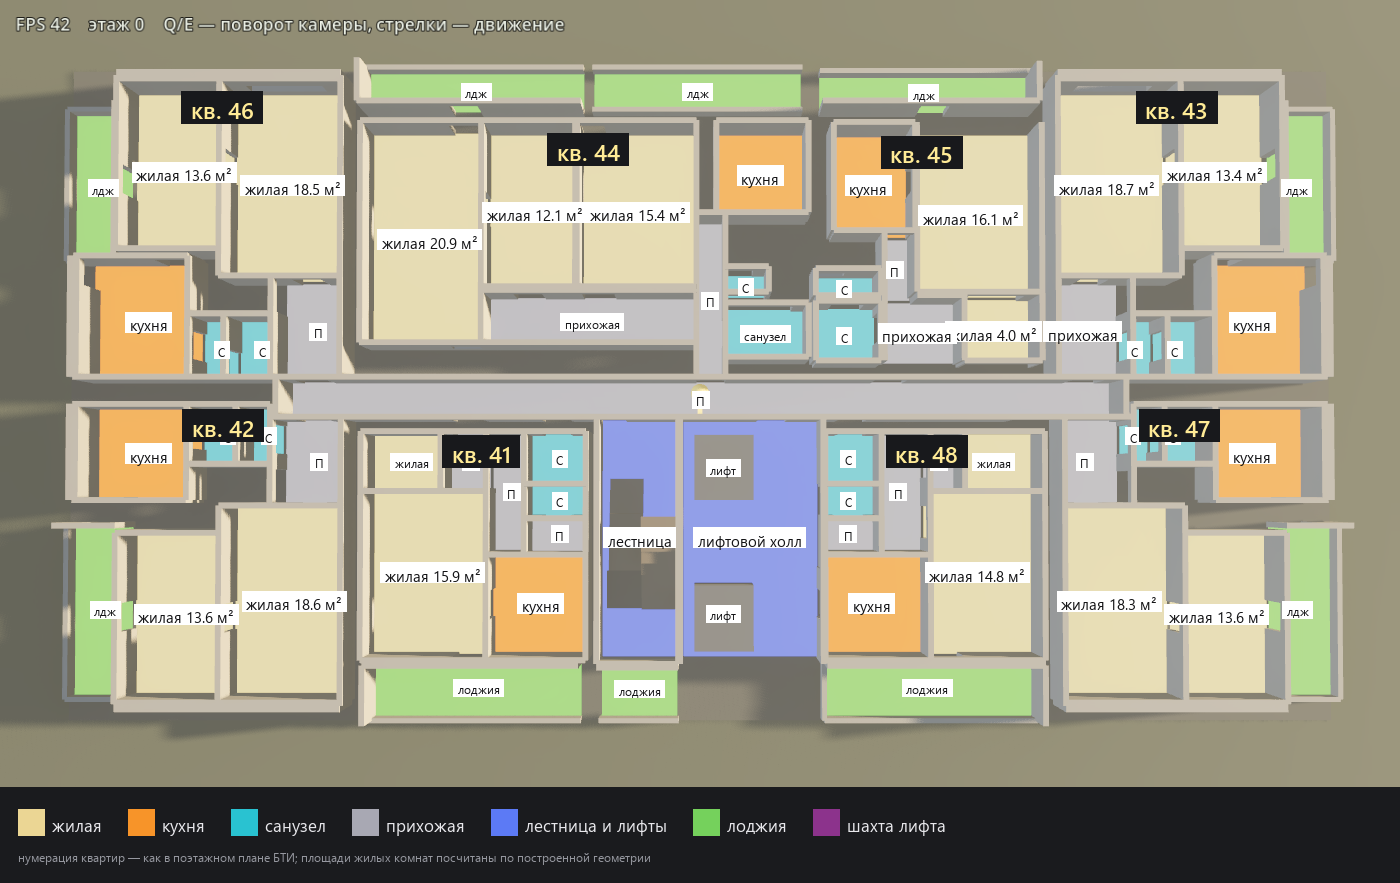
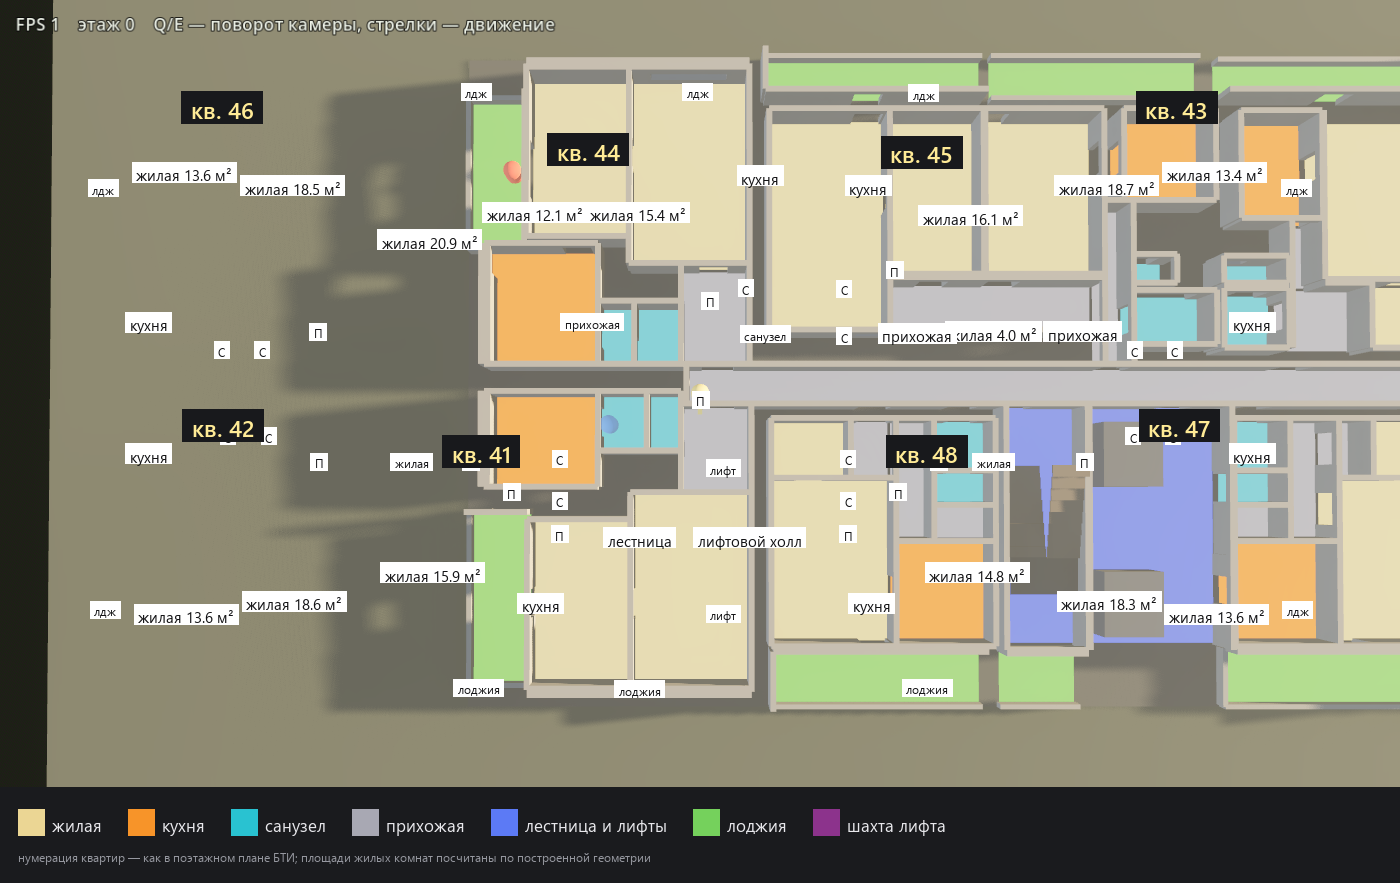
Бот доходит до всех 136 помещений: 70-сантиметровая уборная была ошибкой подгонки
В исходной таблице уборная кв 44 — 1,27 x 0,82 м, как на чертеже. До 0,70
её сжала подгонка координат к линиям скана: стена уехала на 12 см, и в
помещении не осталось места для пути. Подгонке запрещено делать помещение
уже 75 см (MIN_SIDE в tools/snap_rooms.py).

Порог отсева целей снижен до 0,75 м²: теперь ни одно помещение не выпадает.
Обход --walk-all: 136 из 136 на двух этажах, ноль недошедших.

diff --git a/tools/snap_rooms.py b/tools/snap_rooms.py
@@ -18,6 +18,7 @@ S, CX, CZ = 23.94, 607.0, 610.5
 SEARCH = 5          # px, ±0,21 м — дальше стены уезжают и площади плывут
 WELD_MOVE = 0.16    # насколько сварка вправе сдвинуть координату, м
 OVERLAP = 0.05      # допустимое наложение, м
+MIN_SIDE = 0.75     # уже этого помещение стать не может
 
 rows = []
 for line in io.open(RAW, encoding="utf-8").read().splitlines():
@@ -71,7 +72,9 @@ def clashes():
     boxes = [rect(r) for r in recs]
     for i in range(len(boxes)):
         a = boxes[i]
-        if a[2] - a[0] < 0.4 or a[3] - a[1] < 0.4:
+        # Подгонка не вправе сузить помещение: 70-сантиметровая уборная
+        # получается не с чертежа, а от сдвига стены на 12 см.
+        if a[2] - a[0] < MIN_SIDE or a[3] - a[1] < MIN_SIDE:
             return True
         for j in range(i + 1, len(boxes)):
             b = boxes[j]
